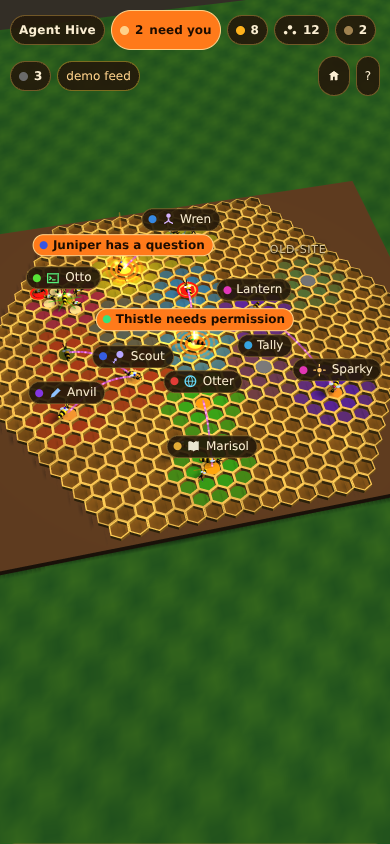
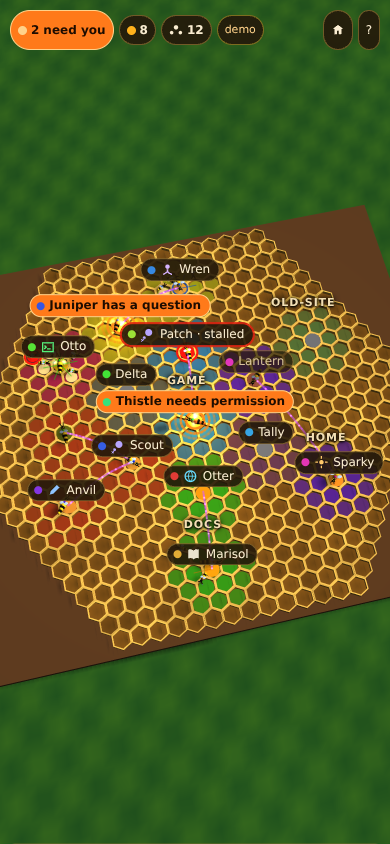
Polish: phone bar, labels clear of the HUD, tapped bee above the sheet
One-line top bar on phones; world labels keep clear of the bar, card and
legend; a tap on a phone slides the view so the bee stays above the
bottom sheet; a steeper portrait fit; muted idle labels, a red "stalled"
label and bolder place labels; the pulse runs on scene time when driven.
Smoke test gains a phone check; README media regenerated from the fixture.

Claude-Session: https://claude.ai/code/session_01LYNeukFY6qMGdbKQJnTwr8

diff --git a/web/page.js b/web/page.js
@@ -5,22 +5,30 @@
   "use strict";
   const {HiveModel, cssColor, bandOf} = window.HiveModel;
   const DEFAULT_YAW = -1.35, DEFAULT_PITCH = 0.95, NEAR_SHIFT = 0.12;
+  // A portrait screen is narrow: look down more steeply so the comb fills
+  // more of the height, not a strip across the middle.
+  const PORTRAIT_PITCH = 1.2;
+  const PHONE_WIDTH = 640;  // agentviz-hud.css: below this the card is a bottom sheet
   const REASON = {question: "has a question", permission: "needs permission"};
   const canvas = document.getElementById("view");
   const model = new HiveModel();
   const wire = AgentvizWire.create();
   const labels = AgentvizScreen.labels(document.getElementById("labels"));
   let kit = null, mod = null, feed = null, selectedId = null, hoveredId = null, camAnim = null, fitted = false;
+  let sceneTime = 0;
 
   /* ------------------------------------------------------------ camera */
   // Every session's patch in view (x runs across the screen at the default yaw).
   function fitView() {
     const b = model.bounds(4.5);
     const aspect = canvas.clientWidth / Math.max(1, canvas.clientHeight);
+    const portrait = aspect < 1, pitch = portrait ? PORTRAIT_PITCH : DEFAULT_PITCH;
     const span = Math.max((b.x1 - b.x0) / Math.min(aspect, 1.9), (b.z1 - b.z0) * 0.85);
     // Perspective makes the near side loom: aim a little towards the camera.
-    const toEye = span * NEAR_SHIFT;
-    return {yaw: DEFAULT_YAW, pitch: DEFAULT_PITCH, dist: Math.max(16, span * 1.05 + 4),
+    // A steep portrait view barely looms, so it aims at the middle instead.
+    const toEye = portrait ? 0 : span * NEAR_SHIFT;
+    const dist = portrait ? Math.max(16, (b.x1 - b.x0) * 1.12 / aspect + 2) : Math.max(16, span * 1.05 + 4);
+    return {yaw: DEFAULT_YAW, pitch, dist,
       tx: (b.x0 + b.x1) / 2 + Math.cos(DEFAULT_YAW) * toEye, ty: 0, tz: (b.z0 + b.z1) / 2 + Math.sin(DEFAULT_YAW) * toEye};
   }
   function fit(instant) { flyTo(fitView(), instant); }
@@ -38,16 +46,34 @@
   function focusOn(bee, dist) {
     flyTo({tx: bee.o.tx, ty: 0, tz: bee.o.tz, dist: Math.min(kit.cam.dist, dist)});
   }
+  // On a phone the card is a bottom sheet over the lower half: if it would
+  // cover the bee just tapped, slide the view (no zoom, no turn) so the bee
+  // sits in the clear upper part of the screen.
+  function keepClearOfSheet(bee) {
+    if (!kit || canvas.clientWidth > PHONE_WIDTH) return;
+    const h = canvas.clientHeight, y = bee.lead ? 0.9 : 0.7;
+    const at = (dx, dz) => kit.project(bee.o.tx + dx, y, bee.o.tz + dz);
+    const q = at(0, 0);
+    if (!q || q.y < h * 0.4) return;
+    const fx = -Math.cos(kit.cam.yaw), fz = -Math.sin(kit.cam.yaw);  // screen-up on the ground (strata-kit.js)
+    const ahead = at(fx, fz), perUnit = ahead ? q.y - ahead.y : 0;
+    if (perUnit <= 0.5) return;
+    const u = (q.y - h * 0.3) / perUnit;
+    flyTo({tx: kit.cam.tx - fx * u, tz: kit.cam.tz - fz * u});
+  }
 
   /* ------------------------------------------------------------ labels */
   function sessionLabel(o) {
     const s = o.data, waiting = s.state === "waiting", offline = s.state === "offline";
-    const cls = "lead" + (waiting ? " waiting" : "") + (offline ? " offline" : "") + (o.id === selectedId ? " sel" : "");
-    const text = waiting ? (s.name || s.id) + " " + (REASON[s.waitingReason] || "needs you") : s.name || s.id;
+    const resting = s.state === "idle" || s.state === "dim", stalled = !!s.stalled && !waiting;
+    const cls = "lead" + (waiting ? " waiting" : "") + (offline ? " offline" : "") + (resting ? " resting" : "") +
+      (stalled ? " stalled" : "") + (o.id === selectedId ? " sel" : "");
+    const name = s.name || s.id;
+    const text = waiting ? name + " " + (REASON[s.waitingReason] || "needs you") : stalled ? name + " · stalled" : name;
     const el = labels.set("s:" + o.id, {cls, action: s.state === "busy" ? s.action : null, text});
     el.style.setProperty("--band", cssColor(bandOf(s)));
     el.style.opacity = o.appear;
-    const rank = waiting || o.id === selectedId ? 0 : (offline ? 3 : 1);
+    const rank = waiting || o.id === selectedId ? 0 : (offline ? 3 : (resting ? 2 : 1));
     return {el, q: kit.project(o.x, waiting ? 2.4 : 2.0, o.z), rank};
   }
   function placeLabel(o) {
@@ -72,7 +98,61 @@
     const f = selectedId && model.followers.get(selectedId);
     if (f) items.push(followerLabel(f));
     labels.end();
-    StrataKit.placeLabels(items);
+    placeClear(items);
+  }
+
+  // Keep world labels out from under the HUD: the top bar's chips, the open
+  // card or sheet, the legend. Strata kit 1.4 takes these as placeLabels'
+  // topInset / avoid; until the vendored kit is 1.4 the same rectangles go
+  // in as placed-first stand-in labels (rank -1, sizes preset so nothing is
+  // measured), and a never-hidden label that still reaches into the top band
+  // is moved down to just under it, as 1.4 does.
+  const KIT_AVOIDS = (() => {
+    const [major, minor] = String(StrataKit.version).split(".").map(Number);
+    return major > 1 || (major === 1 && minor >= 4);
+  })();
+  const HUD_PARTS = ".av-bar > :not([hidden]):not(.av-spacer), .av-panel:not([hidden]), .av-legend:not([hidden])";
+  let hudRects = [], topInset = 0, hudReadAt = -1e9;
+  function readHud() {
+    const now = performance.now();
+    if (now - hudReadAt < 250) return;
+    hudReadAt = now;
+    const pad = 4, c = canvas.getBoundingClientRect();
+    hudRects = [...document.querySelectorAll(HUD_PARTS)].map((node) => node.getBoundingClientRect())
+      .filter((r) => r.width > 0 && r.height > 0)
+      .map((r) => ({left: r.left - c.left - pad, top: r.top - c.top - pad, right: r.right - c.left + pad,
+        bottom: r.bottom - c.top + pad}));
+    const bar = document.querySelector(".av-bar");
+    // On a phone the bar spans the width: keep the whole band clear.
+    topInset = bar && canvas.clientWidth <= PHONE_WIDTH ? bar.getBoundingClientRect().bottom - c.top + pad : 0;
+  }
+  const standIns = [];
+  function standIn(i, r) {
+    if (!standIns[i]) { standIns[i] = document.createElement("span"); standIns[i]._skText = ""; }
+    const el = standIns[i];
+    el._skW = r.right - r.left; el._skH = r.bottom - r.top;
+    return {el, q: {x: (r.left + r.right) / 2, y: r.bottom, w: 0}, rank: -1, tries: 1};
+  }
+  function placeClear(items) {
+    readHud();
+    if (KIT_AVOIDS) { StrataKit.placeLabels(items, {topInset, avoid: hudRects}); keepOnScreen(items); return; }
+    const rects = topInset > 0 ? [{left: -1e5, top: -1e5, right: 1e5, bottom: topInset}].concat(hudRects) : hudRects;
+    StrataKit.placeLabels(rects.map((r, i) => standIn(i, r)).concat(items));
+    keepOnScreen(items);
+  }
+  // A never-hidden label (a waiting session's, the selected one's) is pulled
+  // back inside the screen's sides and below the top band, so "needs you" is
+  // never cut off or covered.
+  function keepOnScreen(items) {
+    const w = canvas.clientWidth, margin = 4;
+    for (const it of items) {
+      const el = it.el;
+      if (it.rank > 0 || !el._skShown || !it.q) continue;
+      const bottom = parseFloat(el.style.top);
+      if (!KIT_AVOIDS && bottom - el._skH < topInset) el.style.top = (topInset + el._skH) + "px";
+      const half = el._skW / 2, x = Math.min(Math.max(it.q.x, half + margin), w - half - margin);
+      if (x !== it.q.x) el.style.left = x + "px";
+    }
   }
 
   /* ------------------------------------------------------------ picking + selection */
@@ -91,6 +171,7 @@
     if (kit) kit.selected = bee || null;
     if (bee && how === "waiting") focusOn(bee, 22);
     else if (bee && how === "list") focusOn(bee, 14);
+    else if (bee && how === "tap") keepClearOfSheet(bee);
   }
 
   const hud = AgentvizHud.create({
@@ -110,6 +191,7 @@
 
   /* ------------------------------------------------------------ boot */
   function frame(t, now, dt) {
+    sceneTime = t;
     stepCam();
     model.step(dt);
     const highlight = (id) => (id === selectedId ? 1 : id === hoveredId ? 2 : 0);
@@ -155,7 +237,9 @@
       StrataLoader.fallback(error.code === "no-webgl2" ? "no-webgl2" : "engine");
       return;
     }
-    feed = AgentvizFeed.create({onUpdate: accept, onStatus: hud.setStatus});
+    // The tool-call pulse runs on scene time when driven (?drive=1), so captures repeat.
+    const now = () => (kit.driven ? sceneTime : Date.now() / 1000);
+    feed = AgentvizFeed.create({onUpdate: accept, onStatus: hud.setStatus, now});
     window.__page = {kit, model, hud, fit, flyTo,
       select: (id, focus) => hud.select(targetOf(model.find(id)), focus ? "list" : "api"),
       get doc() { return feed.doc; }, get polls() { return feed.polls; },

diff --git a/web/index.html b/web/index.html
@@ -15,13 +15,26 @@
   #view { position: fixed; inset: 0; width: 100%; height: 100%; display: block; touch-action: none; outline: none; }
   #labels { position: fixed; inset: 0; pointer-events: none; overflow: hidden; }
   .av-label.lead::before { content: ""; width: 8px; height: 8px; border-radius: 50%; background: var(--band); flex: none; }
-  .av-label.place { background: none; border: none; font-size: 11px; letter-spacing: 0.06em; text-transform: uppercase;
-    color: var(--av-muted); text-shadow: 0 1px 2px #000, 0 0 6px #000; }
+  .av-label.place { background: none; border: none; font-size: 11px; font-weight: 700; letter-spacing: 0.08em; text-transform: uppercase;
+    color: #f3dfb4; text-shadow: 0 1px 2px #000, 0 0 4px #000, 0 0 8px #000; }
   .av-label.waiting { background: var(--av-wait); color: var(--av-wait-fg); border-color: var(--av-note); font-weight: 700;
     animation: av-throb 1.1s ease-in-out infinite; }
   .av-label.offline { opacity: 0.55; }
+  /* Resting sessions step back so the busy ones read first; a stalled one says so in red. */
+  .av-label.resting { color: var(--av-muted); background: rgba(36, 24, 10, 0.72); }
+  .av-label.stalled { border-color: var(--av-stall); box-shadow: 0 0 0 1px var(--av-stall); }
   .av-label.sel { outline: 2px solid #fff; }
   .sk-label-off { opacity: 0 !important; }
+  /* A phone keeps the top bar to one line: the tab already names the page, the
+     idle and away counts are the least urgent, and the demo badge shortens to "demo". */
+  @media (max-width: 640px) {
+    .av-bar { flex-wrap: nowrap; gap: 5px; }
+    .av-bar .av-chip { padding: 4px 7px; gap: 4px; flex: none; }
+    .av-bar .av-title, .av-bar > .av-chip:has(> .av-s-idle), .av-bar > .av-chip:has(> .av-s-offline) { display: none; }
+    .av-bar .av-badge { font-size: 0; gap: 0; }
+    .av-bar .av-badge::after { content: "demo"; font-size: 11px; }
+    .av-bar .av-spacer { flex: 1 1 0; min-width: 0; }
+  }
   .av-legend h3 { margin: 10px 0 6px; font-size: 12px; color: var(--av-muted); text-transform: uppercase; letter-spacing: 0.06em; }
   .av-legend h3:first-child { margin-top: 0; }
   .av-legend ul { list-style: none; margin: 0; padding: 0; display: grid; gap: 5px; }

diff --git a/README.md b/README.md
@@ -13,7 +13,8 @@ several views of the same feed.
 ![The whole comb from the demo feed](docs/media/hero.png)
 *The whole comb from the demo feed: fifteen sessions in seven repos, each repo
 a colour. Thistle (needs permission) and Juniper (has a question) glow with
-beacons; Patch's cell flashes red (stalled); purple scent trails join live
+beacons; Patch's cell flashes red and its label says stalled; idle labels
+are muted so the busy ones read first; purple scent trails join live
 sessions that share a repo.*
 
 ![Worker bees at work](docs/media/hive.gif)
@@ -42,12 +43,16 @@ Query options: `?fixture=1` (demo feed), `?fps=1` (frame stats),
 `?quality=0|1|2`.
 
 Drag to orbit, right-drag or two fingers to pan, wheel or pinch to zoom. Tap a
-bee for its card (a bottom sheet on a phone; swipe it down or tap the cross to
+bee for its card (a bottom sheet on a phone, and the view slides up so the
+bee you tapped stays in sight above it; swipe it down or tap the cross to
 close); tap a subagent in the card to jump to it. The orange **need you** chip
 names who is waiting and why (a question, or a permission prompt), flies the
 camera to it and cycles through them; the house button recentres; **?** opens
 the legend. If the feed stops answering, a banner says so and the last
-snapshot stays; with no sessions at all, a hint says how to start.
+snapshot stays; with no sessions at all, a hint says how to start. World
+labels never sit under the top bar, the card or the legend; on a phone the
+top bar keeps to one line (the busy and subagent counts, the chip and the
+buttons).
 
 ## The metaphor
 
@@ -79,9 +84,9 @@ The comb is a hex grid of wax cells, seen from above at an angle.
 | Lazy hover | `other` | |
 | Cell glowing orange-white, ripples, a beacon of light, bee in a fast alarm dance, label and chip say why | `waiting`: the session needs you | [waiting](docs/media/waiting.png) |
 | A padlock / a "?" floating in the beacon | waiting on a permission prompt / on a question | [waiting](docs/media/waiting.png), [question](docs/media/question.png) |
-| Capped, dim cell, bee resting on the cap | `idle` (`dim` is darker) | [idle + offline](docs/media/idle-offline.png) |
+| Capped, dim cell, bee resting on the cap, a muted label | `idle` (`dim` is darker) | [idle + offline](docs/media/idle-offline.png) |
 | Empty grey cap, no bee | `offline` | [idle + offline](docs/media/idle-offline.png) |
-| Cell flashing red with a red ring | `stalled`: a session busy but silent for 5 min, or a subagent quiet that long without finishing | [stalled](docs/media/stalled.png), [lead + subagents](docs/media/lead-subagents.png) |
+| Cell flashing red with a red ring; a lead's label is ringed red and ends in "stalled" | `stalled`: a session busy but silent for 5 min, or a subagent quiet that long without finishing | [stalled](docs/media/stalled.png), [lead + subagents](docs/media/lead-subagents.png) |
 | Dim worker sitting still on its cell, faint bridge | a resting subagent | [resting](docs/media/resting-subagent.png) |
 | Glowing purple arc with drifting motes between two leads | two live sessions in the same repo (possible conflict) | [shared repo](docs/media/shared-repo.png) |
 
@@ -116,7 +121,7 @@ cap.*
 
 ![Stalled](docs/media/stalled.png)
 *Patch has been busy with nothing written for over five minutes: its cell
-flashes red.*
+flashes red, and its label is ringed red and says "stalled".*
 
 ![Resting subagent](docs/media/resting-subagent.png)
 *Wren's `tests + docs` worker is resting: dim, wings folded, a faint bridge.
@@ -132,7 +137,7 @@ subagents as chips you can tap to jump to one.*
 | Phone, bottom sheet | Phone, needs-you |
 |---|---|
 | ![Phone with bottom sheet](docs/media/phone-sheet.png) | ![Phone waiting](docs/media/phone-waiting.png) |
-| *390 x 844 at DPR 3: Wren selected, the card as a bottom sheet.* | *The whole comb on a phone, with the needs-you chip.* |
+| *390 x 844 at DPR 3: Wren selected, the card as a bottom sheet.* | *The whole comb on a phone: a steeper view fills the height, and the top bar stays one line.* |
 
 | Low angle | Top down |
 |---|---|
